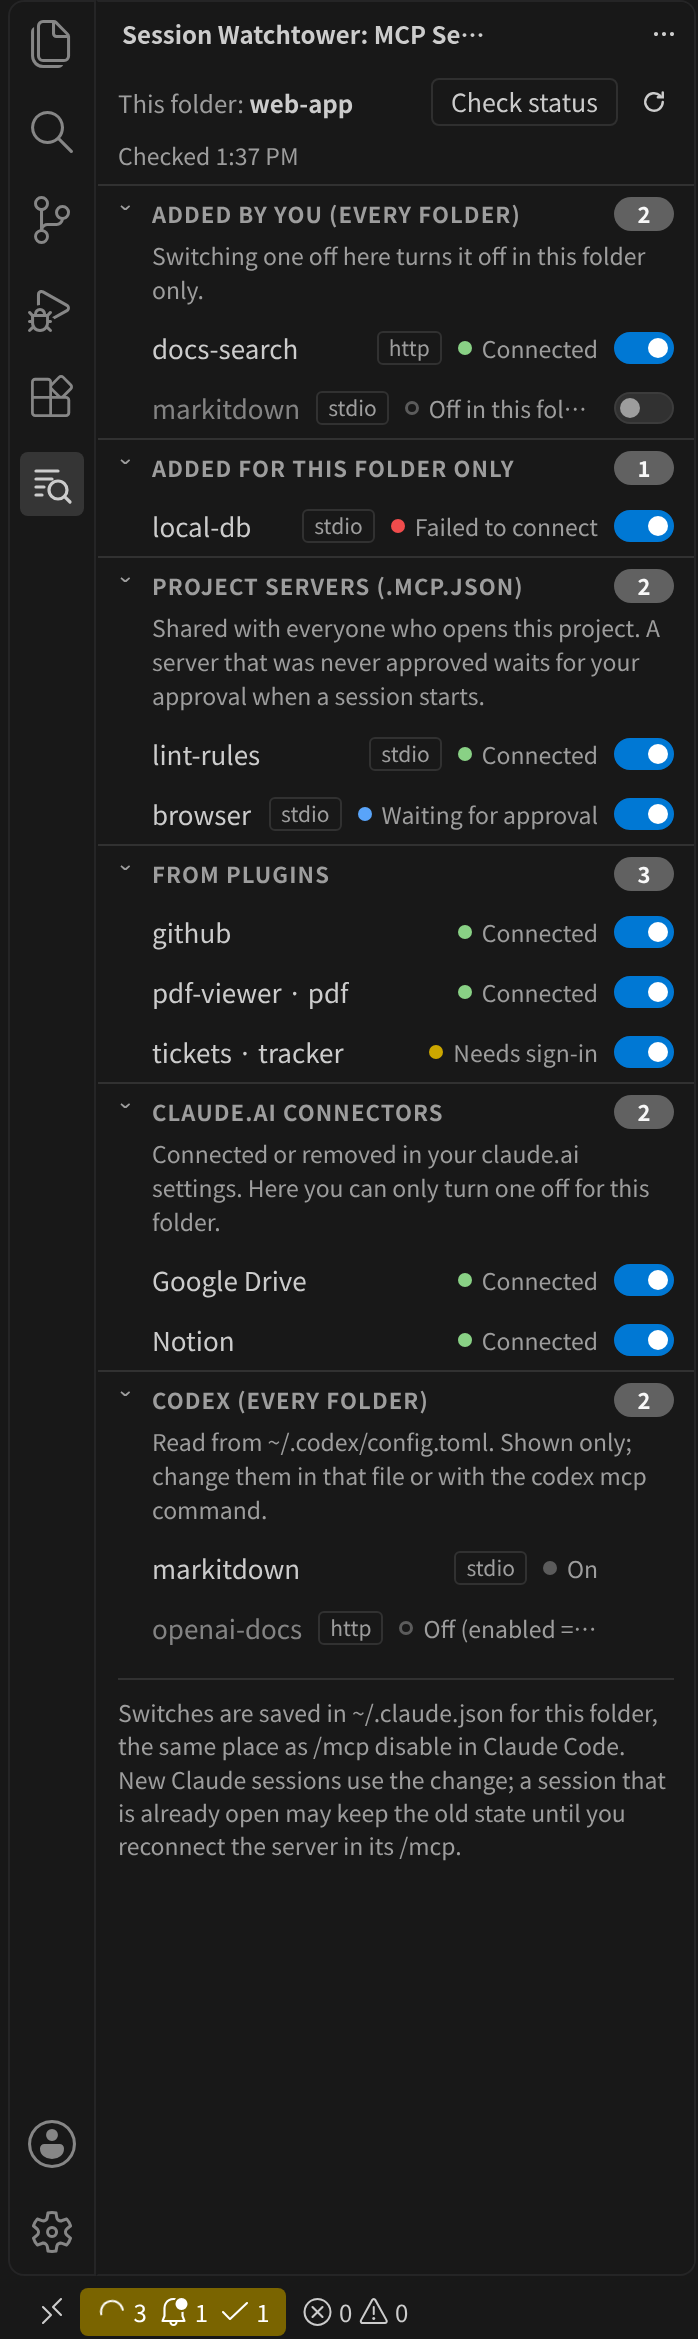
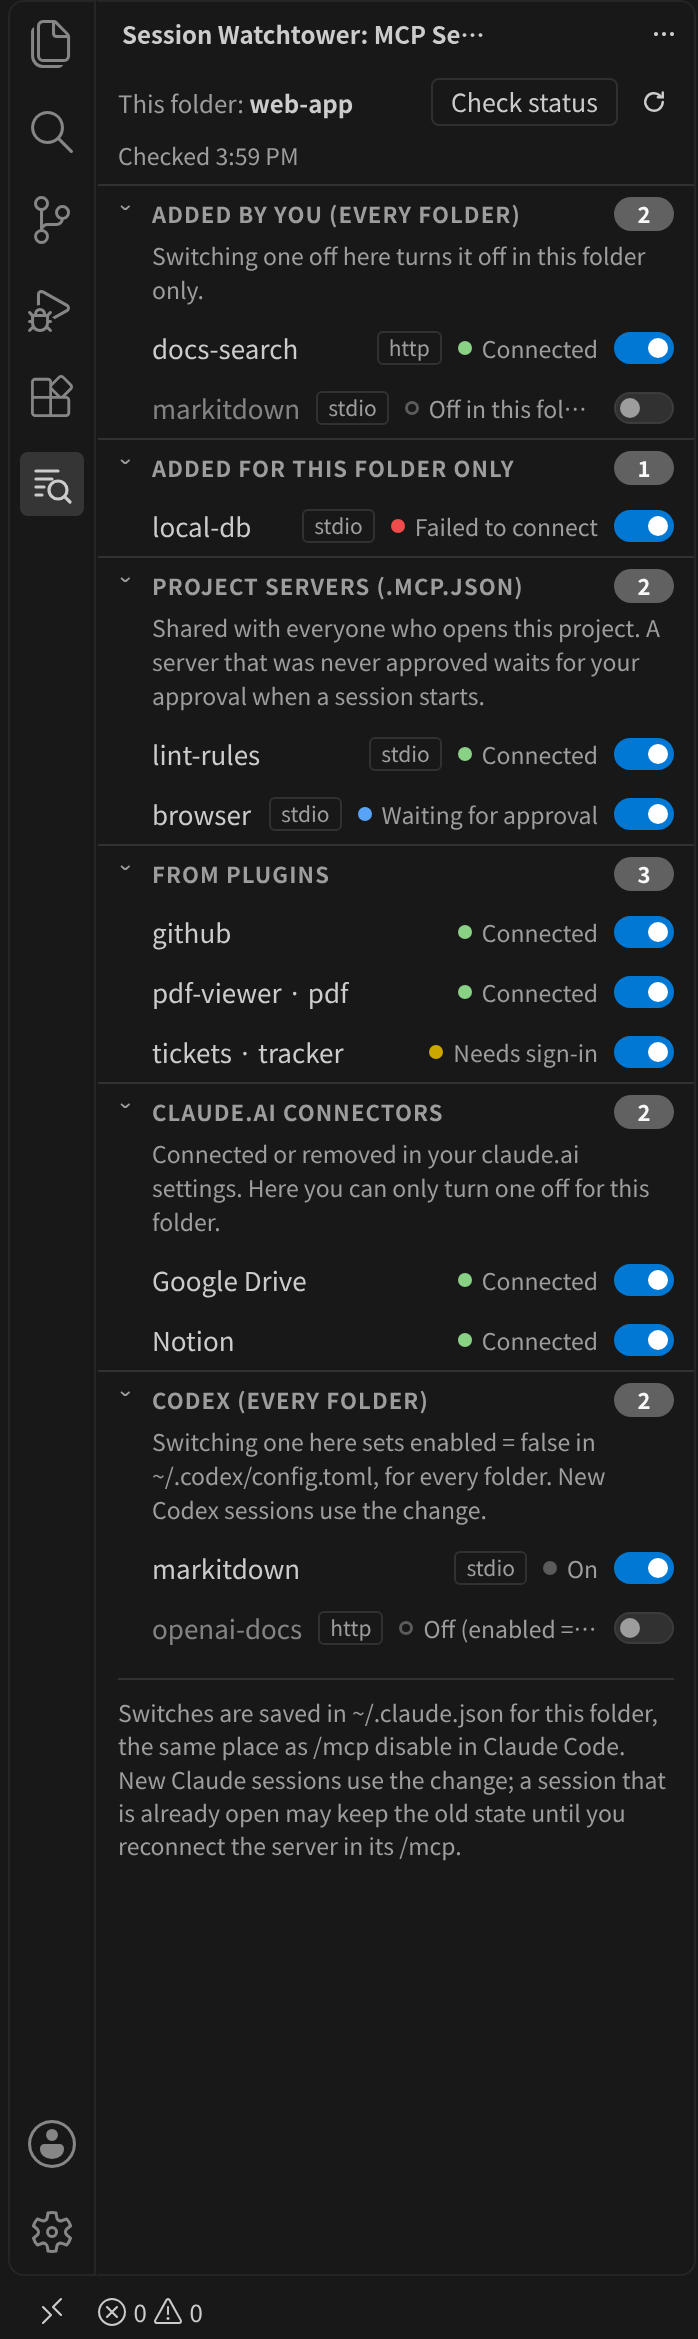
Let the MCP Servers view turn Codex servers off and on
Codex servers in the MCP Servers view now have switches, like Claude Code servers.
- A switch changes only the enabled line of that server's table in ~/.codex/config.toml (for every folder, since Codex has no per-folder setting), keeps a copy of the original the first time, checks a moment later that the change stayed, and offers Undo. Servers written on one line stay read-only.
- Fixed a false "the change did not stay" warning when a switch was undone right away.
- Checked with the MCP tests and with the real Codex CLI, which lists the switched servers as disabled.

diff --git a/extension.js b/extension.js
@@ -3749,6 +3749,8 @@ const mcpChecks = new Map(); // 폴더 → { at, servers: Map(이름 → { state
 const mcpBusy = new Set(); // 지금 저장 중인 서버 이름
 let mcpChecking = false;
 let mcpLast = null; // 마지막으로 바꾼 것 { name, off, folder } — 화면 맨 위 "되돌리기"
+const mcpIntent = new Map(); // 이름 → 마지막으로 바꾼 차례(저장 뒤 확인은 그 뒤에 또 바꾸지 않았을 때만: 곧바로 되돌리면 앞 확인이 헛경고를 냈다)
+let mcpSeq = 0;
 let mcpAllowed = new Set(); // 화면에 스위치로 보여 준 이름만 바꿀 수 있다
 let mcpWatched = null;
 let claudeBinFixed = null; // 시험용
@@ -3824,8 +3826,14 @@ function mcpPayload() {
   add('plugins', L('From plugins'), check ? '' : L('Plugin servers show up after "Check status".'), plugins, true);
   add('claudeai', L('claude.ai connectors'), L('Connected or removed in your claude.ai settings. Here you can only turn one off for this folder.'), ai);
   add('other', L('Other servers'), '', other);
-  const codexRows = info.codex.map((s) => ({ name: 'codex:' + s.name, label: s.name, type: s.type, state: s.enabled ? 'on' : 'off', stateText: s.enabled ? ST.on : L('Off (enabled = false)'), detail: '', on: s.enabled, can: false, readonly: true, why: L('Codex settings are not changed here.') }));
-  if (codexRows.length) sections.push({ id: 'codex', title: L('Codex (every folder)'), note: L('Read from ~/.codex/config.toml. Shown only; change them in that file or with the codex mcp command.'), rows: codexRows });
+  // Codex: config.toml의 enabled를 바꾼다(모든 폴더). 한 줄 표 꼴(이름 = { … })은 고치지 않는다
+  const codexRows = info.codex.map((s) => {
+    const name = 'codex:' + s.name;
+    const why = s.inline ? L('This server is written on one line in config.toml; change it there.') : '';
+    if (!why) allowed.add(name);
+    return { name, label: s.name, type: s.type, state: s.enabled ? 'on' : 'off', stateText: s.enabled ? ST.on : L('Off (enabled = false)'), detail: '', on: s.enabled, can: !why && !mcpBusy.has(name), busy: mcpBusy.has(name), why };
+  });
+  if (codexRows.length) sections.push({ id: 'codex', title: L('Codex (every folder)'), note: L('Switching one here sets enabled = false in ~/.codex/config.toml, for every folder. New Codex sessions use the change.'), rows: codexRows });
   mcpAllowed = allowed;
   const errText = check && check.err ? ({
     nobin: L('Could not find the Claude Code program. Install the Claude Code extension, or put "claude" on PATH.'),
@@ -3839,7 +3847,9 @@ function mcpPayload() {
     checking: mcpChecking,
     checked: check && check.at ? L('Checked {0}', fmtTime(check.at)) : '',
     checkErr: errText,
-    last: mcpLast && mcpLast.folder === folder ? { name: mcpLast.name, text: mcpLast.off ? L('{0} is off in this folder.', mcpLast.name) : L('{0} is on again in this folder.', mcpLast.name) } : null,
+    last: mcpLast && mcpLast.folder === folder ? { name: mcpLast.name, text: mcpLast.name.startsWith('codex:')
+      ? (mcpLast.off ? L('{0} is off for Codex in every folder.', mcpLast.name.slice(6)) : L('{0} is on again for Codex.', mcpLast.name.slice(6)))
+      : (mcpLast.off ? L('{0} is off in this folder.', mcpLast.name) : L('{0} is on again in this folder.', mcpLast.name)) } : null,
     sections,
     foot: L('Switches are saved in ~/.claude.json for this folder, the same place as /mcp disable in Claude Code. New Claude sessions use the change; a session that is already open may keep the old state until you reconnect the server in its /mcp.'),
     t: {
@@ -3868,9 +3878,40 @@ async function mcpCheck() {
   postMcp();
 }
 
+// Codex 서버 끄고 켜기(config.toml, 모든 폴더)
+async function mcpToggleCodex(name, off) {
+  const short = name.slice('codex:'.length);
+  mcpBusy.add(name);
+  postMcp();
+  let r;
+  try { r = mcp.setCodexEnabled(short, !off); } catch { r = { ok: false, reason: 'write' }; }
+  mcpBusy.delete(name);
+  if (!r.ok) {
+    postMcp();
+    vscode.window.showWarningMessage({
+      inline: L('This server is written on one line in config.toml; change it there.'),
+      missing: L('{0} is no longer in ~/.codex/config.toml.', short),
+      read: L('Could not read ~/.codex/config.toml, so nothing was changed.'),
+    }[r.reason] || L('Could not save ~/.codex/config.toml, so nothing was changed.'));
+    return;
+  }
+  mcpLast = { name, off: !!off, folder: mcpFolder() };
+  const seq = ++mcpSeq;
+  mcpIntent.set(name, seq);
+  postMcp();
+  setTimeout(() => {
+    if (mcpIntent.get(name) === seq && mcp.codexEnabled(short) !== !off) vscode.window.showWarningMessage(L('The change to {0} did not stay: another program rewrote ~/.codex/config.toml. Try again.', short));
+    postMcp();
+  }, MCP_VERIFY_MS);
+  const undo = L('Undo');
+  const msg = off ? L('{0} is off for Codex in every folder. New Codex sessions start without it.', short) : L('{0} is on again for Codex. New Codex sessions will start it.', short);
+  vscode.window.showInformationMessage(msg, undo).then((b) => { if (b === undo) { mcpAllowed.add(name); mcpToggle(name, !off); } });
+}
+
 async function mcpToggle(name, off) {
   const folder = mcpFolder();
   if (!folder || typeof name !== 'string' || !mcpAllowed.has(name) || mcpBusy.has(name)) return;
+  if (name.startsWith('codex:')) return mcpToggleCodex(name, off);
   mcpBusy.add(name);
   postMcp();
   let r;
@@ -3887,10 +3928,12 @@ async function mcpToggle(name, off) {
     return;
   }
   mcpLast = { name, off: !!off, folder };
+  const seq = ++mcpSeq;
+  mcpIntent.set(name, seq);
   postMcp();
-  // 저장한 뒤 잠시 있다가 다시 읽어, 다른 프로그램이 덮어쓰지 않았는지 본다
+  // 저장한 뒤 잠시 있다가 다시 읽어, 다른 프로그램이 덮어쓰지 않았는지 본다(그사이 같은 서버를 또 바꿨으면 보지 않는다)
   setTimeout(() => {
-    if (mcp.isDisabled(folder, name) !== !!off) vscode.window.showWarningMessage(L('The change to {0} did not stay: another program rewrote ~/.claude.json. Try again.', name));
+    if (mcpIntent.get(name) === seq && mcp.isDisabled(folder, name) !== !!off) vscode.window.showWarningMessage(L('The change to {0} did not stay: another program rewrote ~/.claude.json. Try again.', name));
     postMcp();
   }, MCP_VERIFY_MS);
   const undo = L('Undo');

diff --git a/mcp.js b/mcp.js
@@ -75,10 +75,58 @@ function parseCodexMcp(text) {
       else if (k === 'enabled') cur.enabled = !/^false\b/.test(kv[2]);
     } else if (inTable && kv[2].startsWith('{')) {
       const name = unq(kv[1]);
-      out.push({ name, type: /\burl\s*=/.test(kv[2]) ? 'http' : 'stdio', enabled: !/\benabled\s*=\s*false\b/.test(kv[2]) });
+      out.push({ name, type: /\burl\s*=/.test(kv[2]) ? 'http' : 'stdio', enabled: !/\benabled\s*=\s*false\b/.test(kv[2]), inline: true });
     }
   }
   return out;
+}
+
+// Codex 서버 하나를 끄거나 켠다: config.toml의 [mcp_servers.<이름>] 표 안 enabled 줄만 바꾸거나(없으면 끌 때만 한 줄 넣음) 다른 줄은 그대로 둔다.
+// Codex 설정은 모든 폴더에 적용된다. 처음 바꿀 때 원본을 <config.toml>.watchtower-backup으로 한 번 남긴다.
+// 결과: { ok, changed } 또는 { ok:false, reason: read|missing|inline|write }
+const TOML_HEADER = /^\s*\[\s*([A-Za-z0-9_\-."' ]+?)\s*\]\s*(#.*)?$/;
+function setCodexEnabled(name, on) {
+  const file = codexConfigPath();
+  let text;
+  try { text = fs.readFileSync(file, 'utf8'); } catch { return { ok: false, reason: 'read' }; }
+  const nl = text.includes('\r\n') ? '\r\n' : '\n';
+  const lines = text.split(/\r?\n/);
+  const unq = (x) => x.replace(/^"(.*)"$|^'(.*)'$/, (m, a, b) => (a !== undefined ? a : b));
+  let start = -1;
+  for (let i = 0; i < lines.length; i++) {
+    const h = TOML_HEADER.exec(lines[i]);
+    if (!h) continue;
+    const parts = h[1].match(/"[^"]*"|'[^']*'|[^.\s]+/g) || [];
+    if (parts.length === 2 && parts[0] === 'mcp_servers' && unq(parts[1]) === name) { start = i; break; }
+  }
+  if (start < 0) {
+    const s = parseCodexMcp(text).find((x) => x.name === name);
+    return { ok: false, reason: s && s.inline ? 'inline' : 'missing' };
+  }
+  let end = lines.length;
+  for (let j = start + 1; j < lines.length; j++) if (TOML_HEADER.test(lines[j]) || /^\s*\[\[/.test(lines[j])) { end = j; break; }
+  let found = -1;
+  for (let j = start + 1; j < end; j++) if (/^\s*enabled\s*=/.test(lines[j])) { found = j; break; }
+  if (found >= 0) {
+    const cur = !/^\s*enabled\s*=\s*false\b/.test(lines[found]);
+    if (cur === on) return { ok: true, changed: false };
+    const indent = lines[found].match(/^\s*/)[0];
+    const comment = (lines[found].match(/\s+#.*$/) || [''])[0];
+    lines[found] = `${indent}enabled = ${on ? 'true' : 'false'}${comment}`;
+  } else {
+    if (on) return { ok: true, changed: false }; // 줄이 없으면 이미 켜짐(기본값)
+    lines.splice(start + 1, 0, 'enabled = false');
+  }
+  try {
+    const backup = file + '.watchtower-backup';
+    if (!fs.existsSync(backup)) { fs.writeFileSync(backup, text, { mode: fs.statSync(file).mode & 0o777 }); }
+    writeAtomic(file, lines.join(nl));
+  } catch { return { ok: false, reason: 'write' }; }
+  return { ok: true, changed: true };
+}
+
+function codexEnabled(name) {
+  try { const s = parseCodexMcp(fs.readFileSync(codexConfigPath(), 'utf8')).find((x) => x.name === name); return s ? s.enabled : null; } catch { return null; }
 }
 
 // .mcp.json(프로젝트 서버)은 폴더에서 저장소 뿌리까지 올라가며 모은다(가까운 것이 이긴다)
@@ -249,4 +297,4 @@ function checkStatus(bin, folder, timeoutMs = LIST_TIMEOUT_MS) {
   });
 }
 
-module.exports = { claudeConfigPath, codexConfigPath, projectKey, listServers, setDisabled, isDisabled, parseMcpList, parseCodexMcp, checkStatus, cleanDetail, withLock };
+module.exports = { claudeConfigPath, codexConfigPath, projectKey, listServers, setDisabled, isDisabled, setCodexEnabled, codexEnabled, parseMcpList, parseCodexMcp, checkStatus, cleanDetail, withLock };

diff --git a/CHANGELOG.md b/CHANGELOG.md
@@ -1,5 +1,11 @@
 # Changelog
 
+## 0.27.0
+
+- **Codex MCP switches.** Codex servers in the MCP Servers view can now be turned off or on: the extension changes only the `enabled` line of that server's table in `~/.codex/config.toml` (for every folder, as Codex has no per-folder setting), keeps a copy of the original the first time, checks that the change stayed, and offers Undo. A server written on one line stays read-only.
+- Fixed: turning a server off and undoing it right away could show a false "the change did not stay" warning.
+- README pictures for plan usage, the team roster and folded board parts; the session counts and usage item now always sit side by side.
+
 ## 0.26.2
 
 - Fixed: on a group board, the shared memo jumped back to the top every few seconds while sessions worked, because the board was redrawn on every update. The board now skips a redraw when nothing changed and keeps the scroll position of the memo, the file list and the page.
